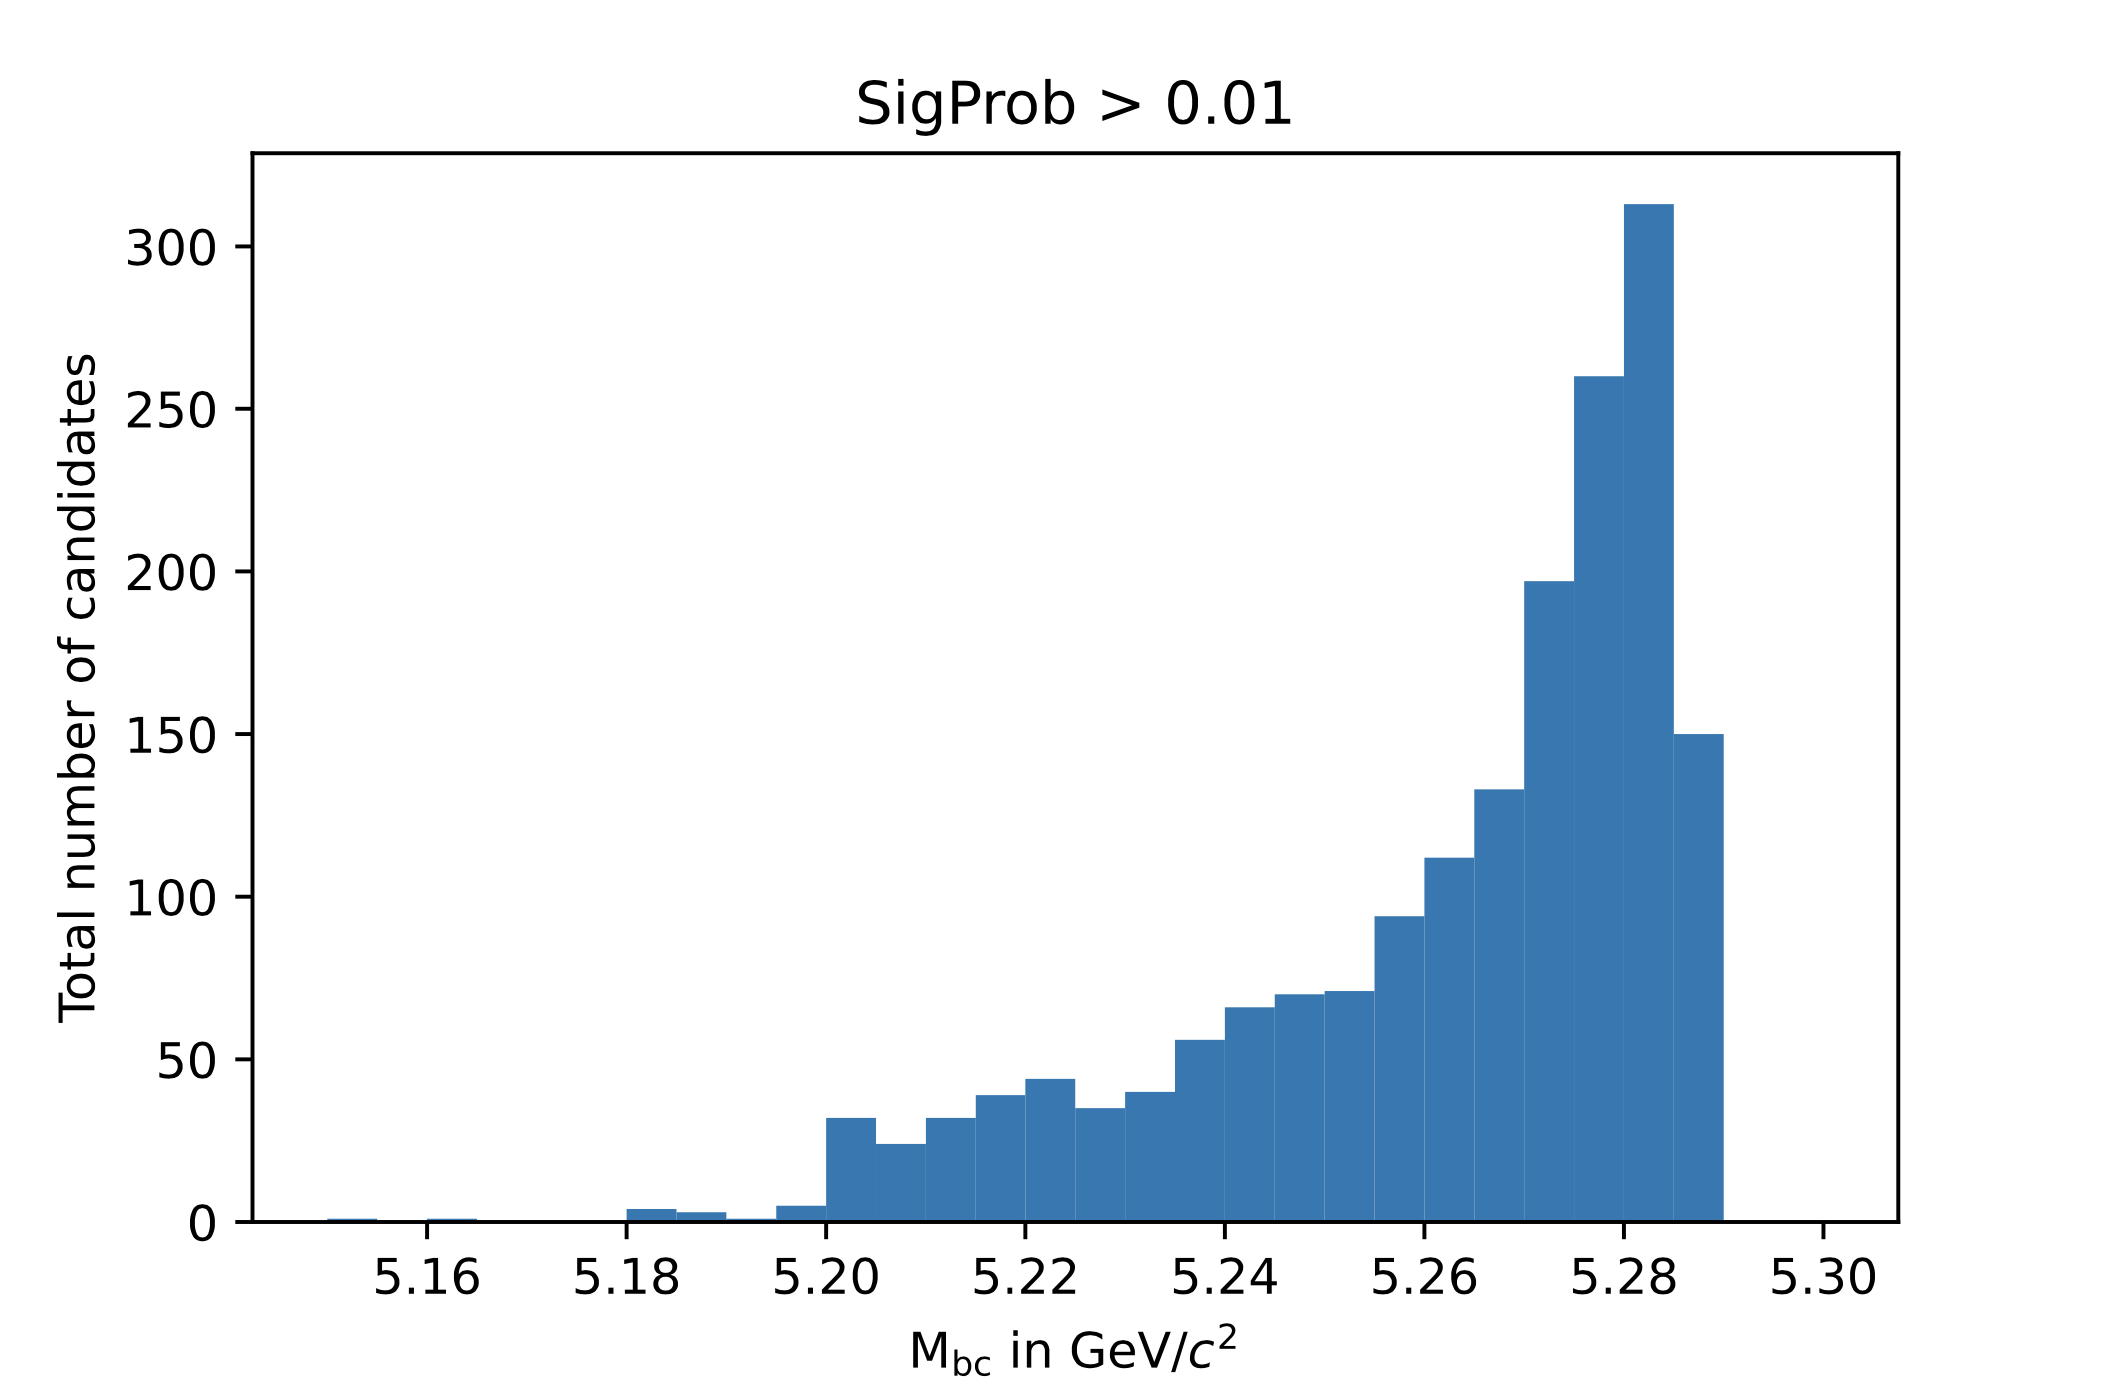
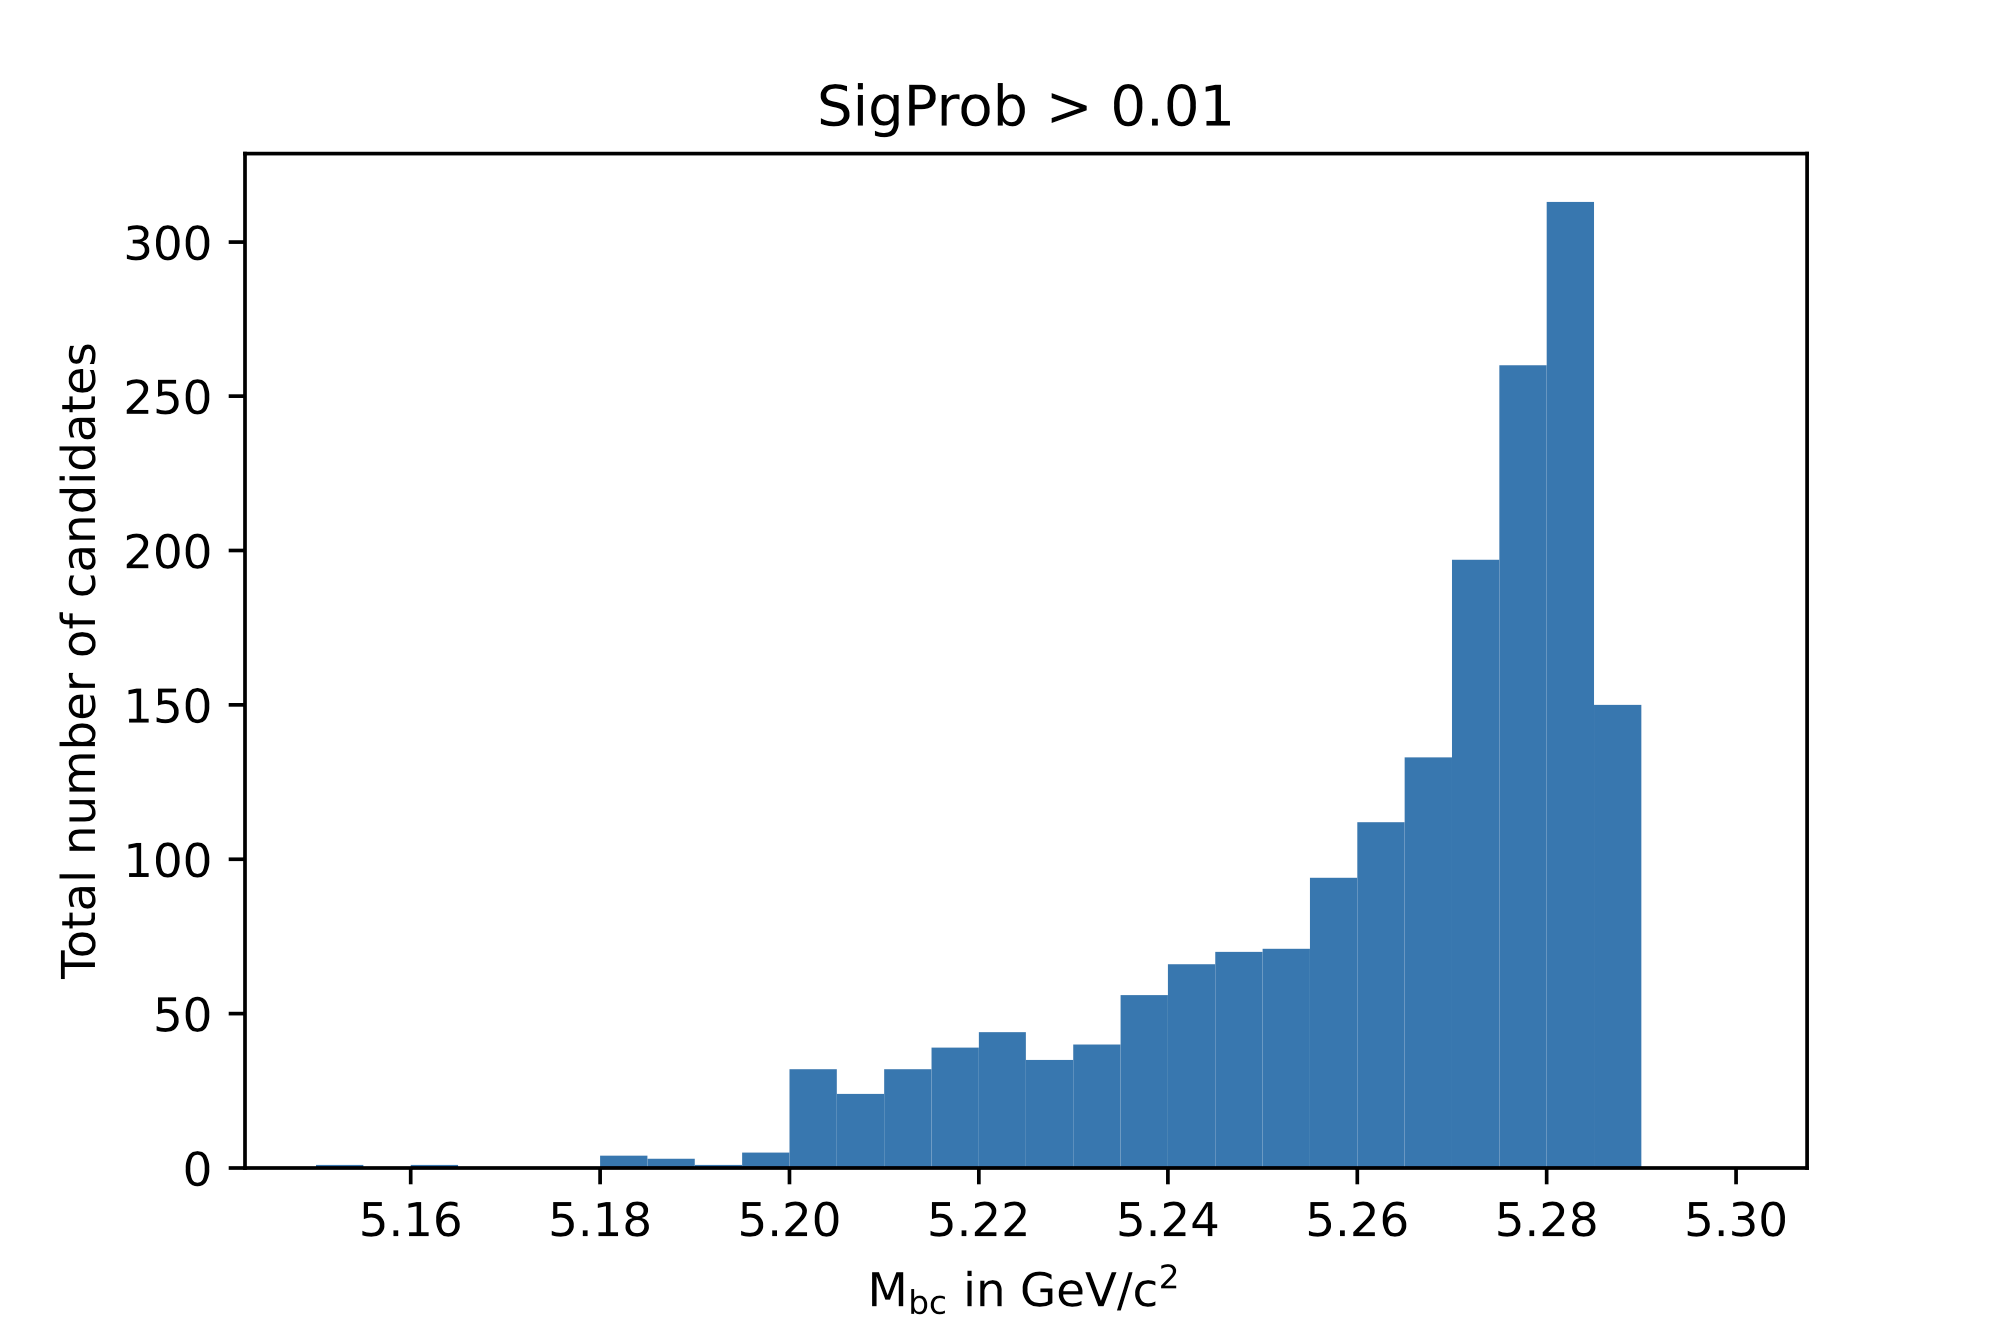
updated xlabels

diff --git a/online_book/basf2/fei.rst b/online_book/basf2/fei.rst
@@ -687,7 +687,7 @@ an MC sample with only four decay channels.
         signal_df = df.query('(Bsig_isSignal  == 1.0)')
 
         n, bins, patches = ax.hist(signal_df['m2RecoilSignalSide'], bins=30, range=(-2, 5))
-        ax.set_xlabel(r'$\mathrm{M}_{\mathrm{bc}}$ in GeV/c$^2$')
+        ax.set_xlabel(r'$m^2_{\mathrm{recoil}}$ in (GeV/c$^2$)$^2$')
         ax.set_ylabel('Total number of candidates')
         ax.set_title('Bsig_isSignal == 1')
         fig.savefig('m2RSS_Signal.pdf')
@@ -699,7 +699,7 @@ an MC sample with only four decay channels.
         cut_df = df.query('(Btag_SigProb > 0.01) & (nCharged == 0.0)')
 
         n, bins, patches = ax.hist(cut_df['m2RecoilSignalSide'], bins=30, range=(-2, 5))
-        ax.set_xlabel(r'$\mathrm{M}_{\mathrm{bc}}$ in GeV/c$^2$')
+        ax.set_xlabel(r'$m^2_{\mathrm{recoil}}$ in (GeV/c$^2$)$^2$')
         ax.set_ylabel('Total number of candidates')
         ax.set_title('SigProb > 0.01')
         fig.savefig('m2RSS_FEIcut_0_01_nCharged_0.pdf')
